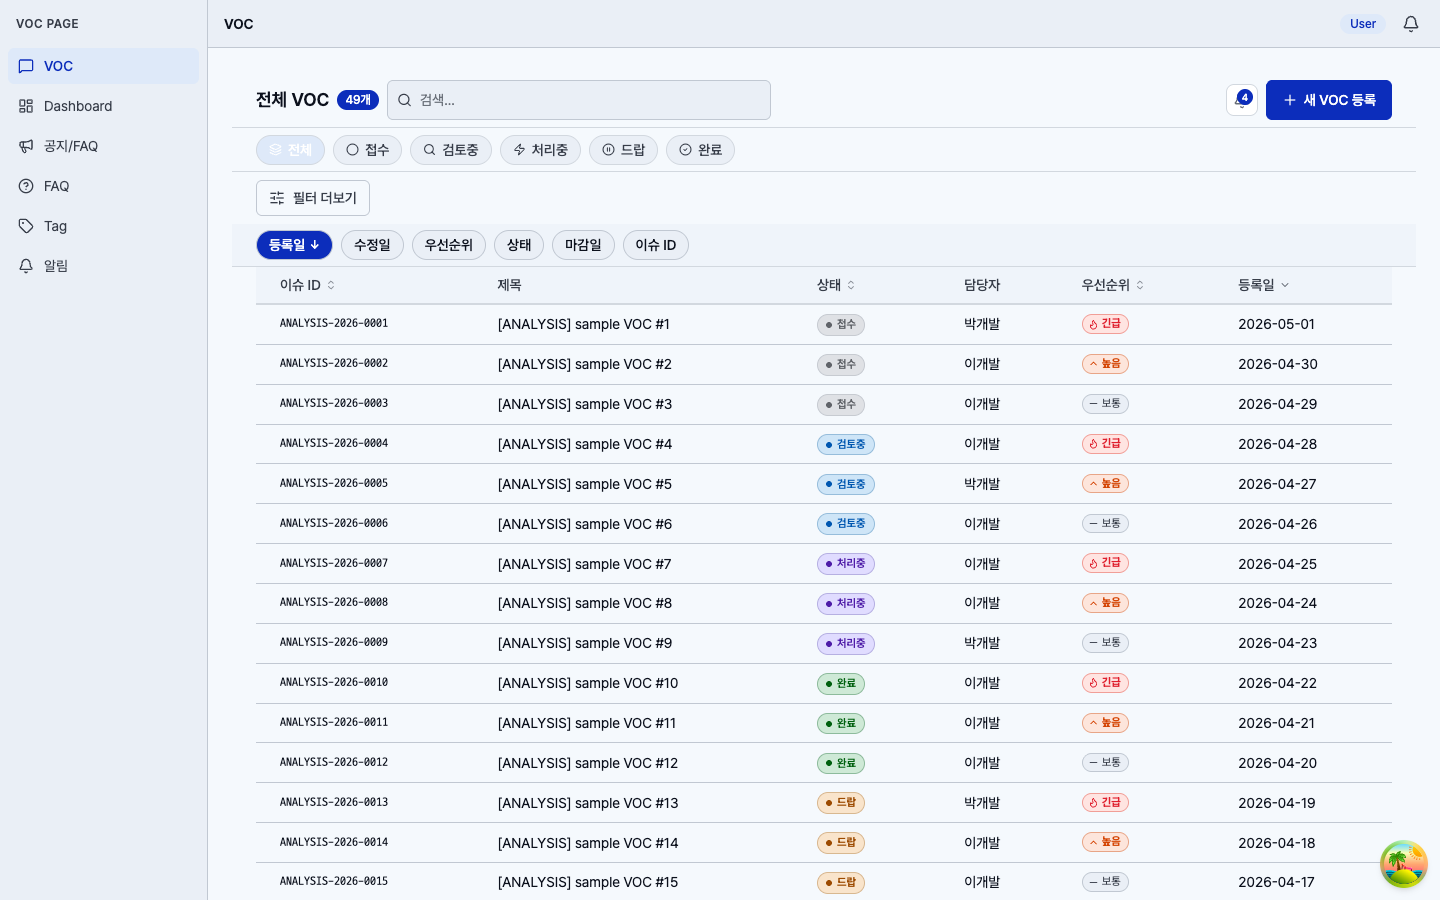
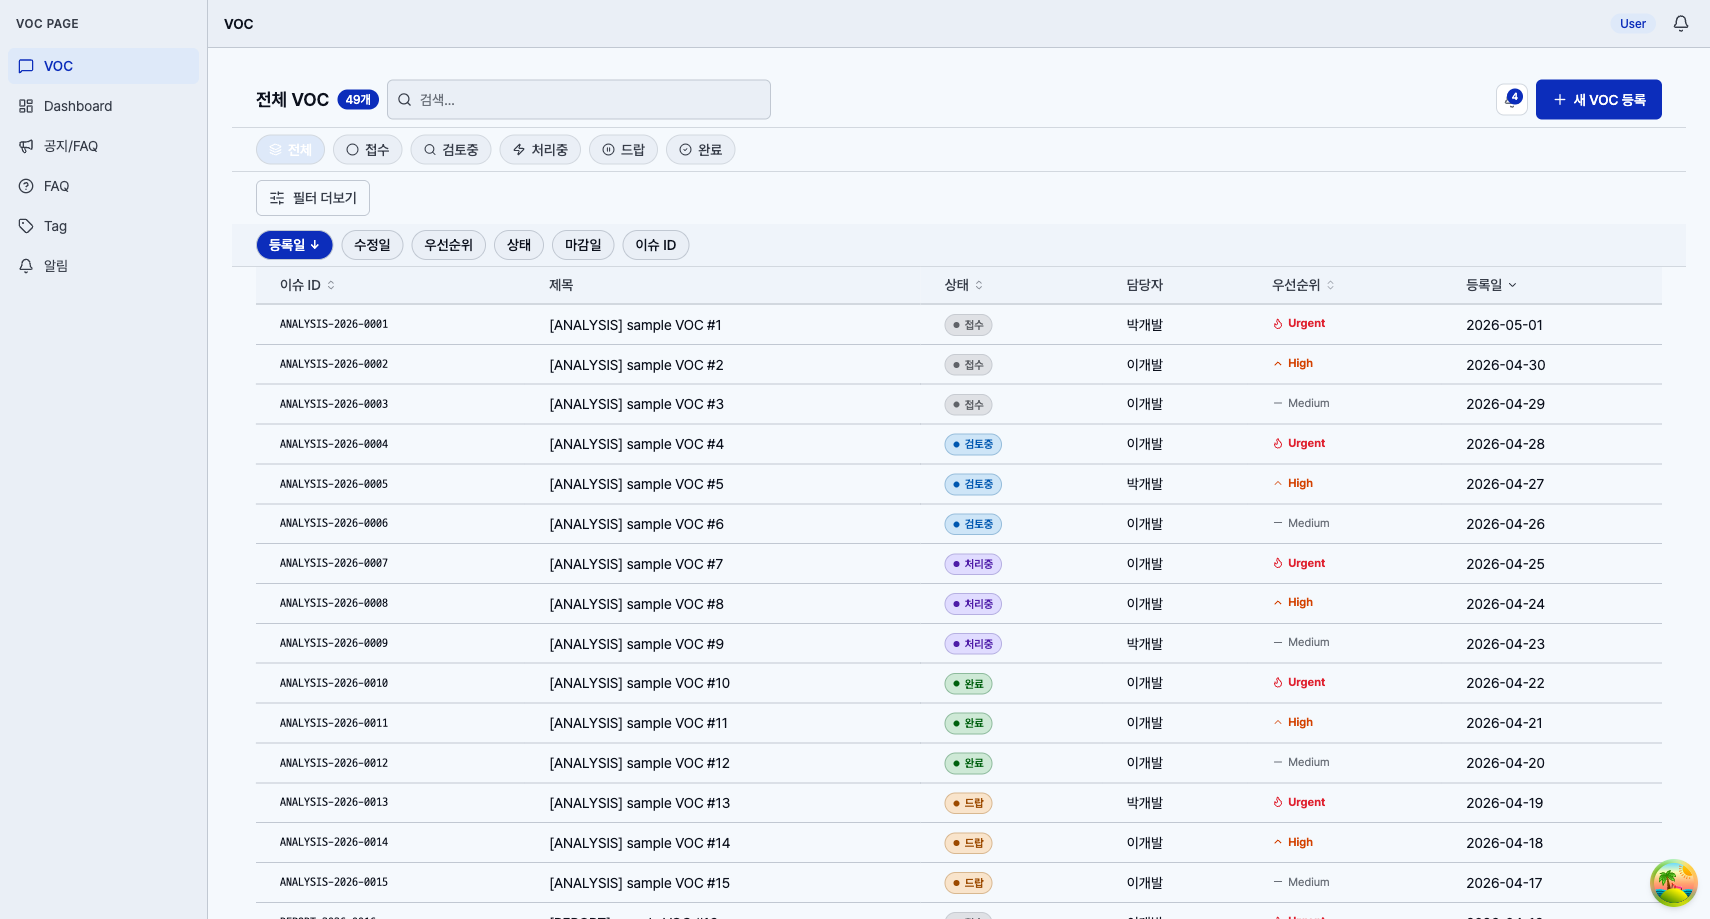
feat(wave-1.6-phase-c-2): switch VocPriorityBadge to text-only English style
Per user feedback after PR open + visual review:
- Labels: Korean (긴급/높음/보통/낮음) → English (Urgent/High/Medium/Low).
  VOC table column header (우선순위) stays Korean.
- aria-label: 우선순위 → Priority.
- CSS: drop chip background + border + radius + padding; keep icon+text only.
  font-size 11px → 11.5px (now matches metadata tier; no chip-family alignment
  constraint to honor).
- Icon size 11 → 12 (matches reference visual).
- Color tokens: medium → --text-tertiary, low → --text-quaternary (back to the
  original uidesign §5 spec — chip muting is no longer needed).
- Remove --status-orange-bg / --status-orange-border tokens (no production
  consumer remains in this PR; --status-orange itself stays for High text).
- uidesign.md §5 narrative + §10 token block synced.
- Replace PR screenshot with the new style.

Resolves the chip-vs-text-only design divergence the designer agent and codex
adversarial review both flagged earlier in this PR.

diff --git a/frontend/src/styles/index.css b/frontend/src/styles/index.css
@@ -111,9 +111,10 @@
   --status-amber-border: light-dark(oklch(78% 0.09 72), oklch(30% 0.09 72));
   --status-red-bg: light-dark(oklch(94% 0.03 25), oklch(18% 0.07 25));
   --status-red-border: light-dark(oklch(78% 0.1 25), oklch(30% 0.1 25));
-  --status-orange: light-dark(oklch(58% 0.2 45), oklch(74% 0.17 45));
-  --status-orange-bg: light-dark(oklch(94% 0.03 45), oklch(18% 0.06 45));
-  --status-orange-border: light-dark(oklch(78% 0.09 45), oklch(30% 0.09 45));
+  --status-orange: light-dark(
+    oklch(58% 0.2 45),
+    oklch(74% 0.17 45)
+  ); /* priority high (Wave 1.6 Phase C-2) */
   --status-purple-bg: light-dark(oklch(94% 0.025 290), oklch(18% 0.06 290));
   --status-purple-border: light-dark(oklch(78% 0.08 290), oklch(30% 0.09 290));
 
@@ -229,16 +230,14 @@ body {
   background: var(--status-drop-fg);
 }
 
-/* Priority badge — VocPriorityBadge component (Wave 1.6 Phase C-2) */
+/* Priority badge — VocPriorityBadge component (Wave 1.6 Phase C-2)
+   Text-only style: icon + label, no chip background or border. */
 .priority-badge {
   display: inline-flex;
   align-items: center;
-  gap: 3px;
-  padding: 1px 7px 1px 5px;
-  border-radius: 10px;
-  font-size: 11px;
+  gap: 4px;
+  font-size: 11.5px;
   white-space: nowrap;
-  border: 1px solid transparent;
 }
 .priority-badge .priority-icon {
   display: inline-flex;
@@ -246,22 +245,14 @@ body {
   flex-shrink: 0;
 }
 .priority-badge.p-urgent {
-  background: var(--status-red-bg);
   color: var(--status-red);
-  border-color: var(--status-red-border);
 }
 .priority-badge.p-high {
-  background: var(--status-orange-bg);
   color: var(--status-orange);
-  border-color: var(--status-orange-border);
 }
 .priority-badge.p-medium {
-  background: var(--bg-elevated);
-  color: var(--text-secondary);
-  border-color: var(--border-standard);
+  color: var(--text-tertiary);
 }
 .priority-badge.p-low {
-  background: var(--bg-elevated);
-  color: var(--text-tertiary);
-  border-color: var(--border-standard);
+  color: var(--text-quaternary);
 }

diff --git a/frontend/src/components/voc/VocPriorityBadge.tsx b/frontend/src/components/voc/VocPriorityBadge.tsx
@@ -5,10 +5,10 @@ const PRIORITY_CONFIG: Record<
   VocPriority,
   { label: string; Icon: LucideIcon; iconName: string; weightClass: string }
 > = {
-  urgent: { label: '긴급', Icon: Flame, iconName: 'flame', weightClass: 'font-bold' },
-  high: { label: '높음', Icon: ChevronUp, iconName: 'chevron-up', weightClass: 'font-semibold' },
-  medium: { label: '보통', Icon: Minus, iconName: 'minus', weightClass: 'font-normal' },
-  low: { label: '낮음', Icon: ChevronDown, iconName: 'chevron-down', weightClass: 'font-normal' },
+  urgent: { label: 'Urgent', Icon: Flame, iconName: 'flame', weightClass: 'font-bold' },
+  high: { label: 'High', Icon: ChevronUp, iconName: 'chevron-up', weightClass: 'font-semibold' },
+  medium: { label: 'Medium', Icon: Minus, iconName: 'minus', weightClass: 'font-normal' },
+  low: { label: 'Low', Icon: ChevronDown, iconName: 'chevron-down', weightClass: 'font-normal' },
 };
 
 export function VocPriorityBadge({ priority }: { priority: VocPriority }) {
@@ -17,10 +17,10 @@ export function VocPriorityBadge({ priority }: { priority: VocPriority }) {
     <span
       className={`priority-badge p-${priority} ${weightClass}`}
       data-testid={`priority-badge-${priority}`}
-      aria-label={`우선순위 ${label}`}
+      aria-label={`Priority ${label}`}
     >
       <span className="priority-icon">
-        <Icon size={11} className={`lucide-${iconName}`} aria-hidden="true" />
+        <Icon size={12} className={`lucide-${iconName}`} aria-hidden="true" />
       </span>
       {label}
     </span>

diff --git a/frontend/src/components/voc/__tests__/VocPriorityBadge.test.tsx b/frontend/src/components/voc/__tests__/VocPriorityBadge.test.tsx
@@ -5,10 +5,10 @@ import type { VocPriority } from '../../../../../shared/contracts/voc';
 describe('VocPriorityBadge', () => {
   type Case = [VocPriority, string, string, string];
   const cases: Case[] = [
-    ['urgent', '긴급', 'flame', 'font-bold'],
-    ['high', '높음', 'chevron-up', 'font-semibold'],
-    ['medium', '보통', 'minus', 'font-normal'],
-    ['low', '낮음', 'chevron-down', 'font-normal'],
+    ['urgent', 'Urgent', 'flame', 'font-bold'],
+    ['high', 'High', 'chevron-up', 'font-semibold'],
+    ['medium', 'Medium', 'minus', 'font-normal'],
+    ['low', 'Low', 'chevron-down', 'font-normal'],
   ];
 
   it.each(cases)(
@@ -20,7 +20,7 @@ describe('VocPriorityBadge', () => {
       expect(el).toBeInTheDocument();
       expect(el).toHaveClass('priority-badge', `p-${priority}`);
       expect(el).toHaveTextContent(label);
-      expect(el).toHaveAttribute('aria-label', `우선순위 ${label}`);
+      expect(el).toHaveAttribute('aria-label', `Priority ${label}`);
 
       // font-weight class on the element
       expect(el).toHaveClass(weightClass);

diff --git a/docs/specs/requires/uidesign.md b/docs/specs/requires/uidesign.md
@@ -262,12 +262,15 @@ gap: 5px;
 
 ### Priority Badge
 
-- Icon (Flame / ChevronUp / Minus / ChevronDown via lucide-react) + text combination, rendered as a 3-token chip (bg + border + fg)
-- Urgent: `var(--status-red)` fg / `var(--status-red-bg)` bg / `var(--status-red-border)` — `font-weight: 700`
-- High: `var(--status-orange)` fg / `var(--status-orange-bg)` bg / `var(--status-orange-border)` — `font-weight: 600`
-- Medium: `var(--text-secondary)` fg / `var(--bg-elevated)` bg / `var(--border-standard)` — `font-weight: 400`
-- Low: `var(--text-tertiary)` fg / `var(--bg-elevated)` bg / `var(--border-standard)` — `font-weight: 400`
-- `font-size: 11px` — badge-family convention (matches `.status-badge`); weight + hue both carry the semantic signal. Naked metadata text in the same row continues to use the 11.5px tier described in §7 — chip-internal text is one notch tighter to balance the surrounding chrome.
+- **Text-only style** (no chip background or border): icon + label.
+- English labels: `Urgent` / `High` / `Medium` / `Low`. The column header in the VOC list (`우선순위`) stays in Korean.
+- Icons via lucide-react: Flame / ChevronUp / Minus / ChevronDown.
+- Urgent: `var(--status-red)` — `font-weight: 700`
+- High: `var(--status-orange)` — `font-weight: 600`
+- Medium: `var(--text-tertiary)` — `font-weight: 400`
+- Low: `var(--text-quaternary)` — `font-weight: 400`
+- `font-size: 11.5px` — metadata tier (§7). Color + weight together carry the semantic signal; the absence of a chip keeps the row visually quiet.
+- aria-label: `Priority ${label}` (English, matches the label).
 - Implementation: `frontend/src/components/voc/VocPriorityBadge.tsx` (Wave 1.6 Phase C-2)
 
 ### Card & Container
@@ -609,8 +612,6 @@ Full token set — copy into `:root` as the single source of truth.
   --status-amber-border: light-dark(oklch(78% 0.09 72), oklch(30% 0.09 72));
   --status-red-bg: light-dark(oklch(94% 0.03 25), oklch(18% 0.07 25));
   --status-red-border: light-dark(oklch(78% 0.1 25), oklch(30% 0.1 25));
-  --status-orange-bg: light-dark(oklch(94% 0.03 45), oklch(18% 0.06 45));
-  --status-orange-border: light-dark(oklch(78% 0.09 45), oklch(30% 0.09 45));
   --status-purple-bg: light-dark(oklch(94% 0.025 290), oklch(18% 0.06 290));
   --status-purple-border: light-dark(oklch(78% 0.08 290), oklch(30% 0.09 290));
 
